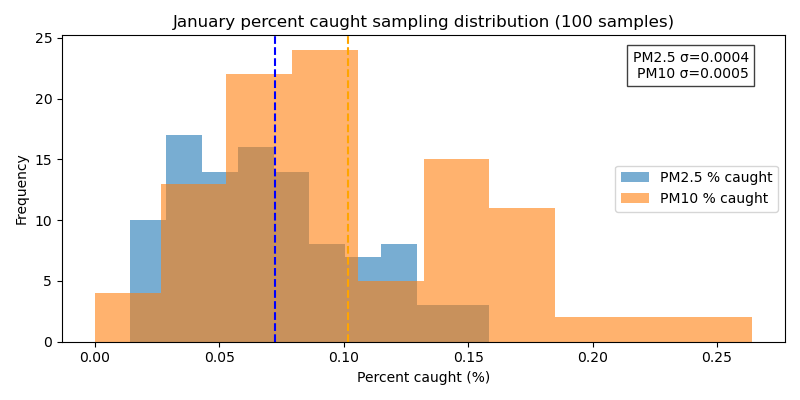
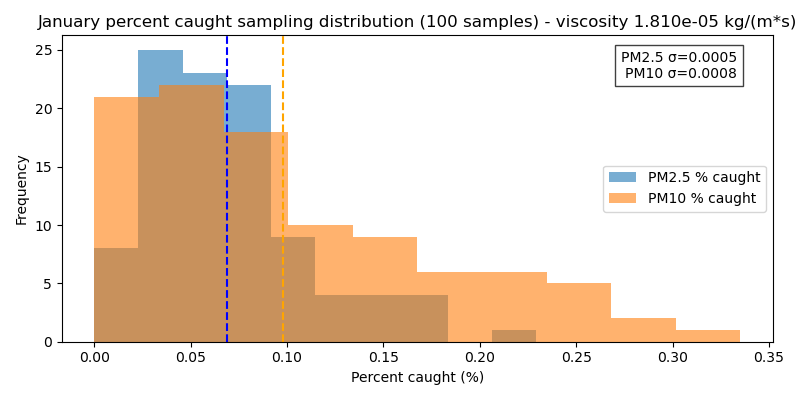
Refactor monthly sampling data handling: delete old CSV, update data structure, and enhance histogram plotting with new summary functions and visualizations

diff --git a/particle_motion.py b/particle_motion.py
@@ -302,7 +302,7 @@ def plot_percent_caught(monthly_results, save_path='percent_caught.png'):
         print("Headless backend used (Agg); cannot display interactive window, view saved file.")
 
 
-def plot_monthly_caught_histograms(monthly_results, out_dir='monthly_caught_hists', csv_path='monthly_caught.csv', show_plots=True):
+def plot_monthly_caught_histograms(monthly_results, out_dir='monthly_caught_hists', csv_path='monthly_caught.csv', show_plots=True, num_particles=5000, viscosity=viscosity_air):
     import os
     import csv
     try:
@@ -373,7 +373,7 @@ def plot_monthly_caught_histograms(monthly_results, out_dir='monthly_caught_hist
             plt.hist(percent_samples_pm10, bins=10, alpha=0.6, label='PM10 % caught')
             plt.xlabel('Percent caught (%)')
             plt.ylabel('Frequency')
-            plt.title(f'{month} percent caught sampling distribution ({len(samples)} samples)')
+            plt.title(f'{month} percent caught sampling distribution ({len(samples)} samples) - viscosity {viscosity:.3e} kg/(m*s)')
             plt.legend()
             plt.axvline(100*mean_pm2_5, color='blue', linestyle='--', label=f'PM2.5 mean {100*mean_pm2_5:.3f}%')
             plt.axvline(100*mean_pm10, color='orange', linestyle='--', label=f'PM10 mean {100*mean_pm10:.3f}%')
@@ -390,9 +390,10 @@ def plot_monthly_caught_histograms(monthly_results, out_dir='monthly_caught_hist
             plt.figure(figsize=(8, 4))
             plt.hist(pm2_5_rates, bins=10, alpha=0.6, label='PM2.5 capture rate')
             plt.hist(pm10_rates, bins=10, alpha=0.6, label='PM10 capture rate')
-            plt.xlabel('Capture rate (fraction)')
+            plt.xlabel('Capture rate (fraction of batch captured; unitless, e.g. 0.1 = 10% of particles)')
             plt.ylabel('Frequency')
             plt.title(f'{month} capture rate sampling distribution ({len(samples)} samples)')
+            plt.suptitle('Initial particle mix: 70% PM2.5, 30% PM10 (by number)')
             plt.legend()
             plt.axvline(mean_pm2_5, color='blue', linestyle='--', label=f'PM2.5 mean {mean_pm2_5:.6f}')
             plt.axvline(mean_pm10, color='orange', linestyle='--', label=f'PM10 mean {mean_pm10:.6f}')
@@ -406,13 +407,44 @@ def plot_monthly_caught_histograms(monthly_results, out_dir='monthly_caught_hist
             plt.close()
             print(f"Saved capture rate sampling histogram for {month} to {filename_rate_sampling}")
 
-        # aggregate all months total histogram
+        # aggregate all months total histogram for percent and rate
+        all_pm2_5_percent = [r * 100.0 for r in all_pm2_5_rates]
+        all_pm10_percent = [r * 100.0 for r in all_pm10_rates]
+
+        all_mean_pm2_5_rate = sum(all_pm2_5_rates) / len(all_pm2_5_rates)
+        all_mean_pm10_rate = sum(all_pm10_rates) / len(all_pm10_rates)
+        all_std_pm2_5_rate = (sum((r - all_mean_pm2_5_rate)**2 for r in all_pm2_5_rates) / len(all_pm2_5_rates))**0.5
+        all_std_pm10_rate = (sum((r - all_mean_pm10_rate)**2 for r in all_pm10_rates) / len(all_pm10_rates))**0.5
+
+        plt.figure(figsize=(10, 5))
+        plt.hist(all_pm2_5_percent, bins=20, alpha=0.6, label='PM2.5 % caught')
+        plt.hist(all_pm10_percent, bins=20, alpha=0.6, label='PM10 % caught')
+        plt.xlabel('Percent caught (%)')
+        plt.ylabel('Frequency')
+        plt.title(f'All-month percent sampling distribution (samples={len(all_pm2_5_rates)}, particles/sample={num_particles}, viscosity={viscosity:.5f})')
+        plt.axvline(all_mean_pm2_5_rate * 100, color='blue', linestyle='--', label=f'PM2.5 mean {all_mean_pm2_5_rate*100:.4f}%')
+        plt.axvline(all_mean_pm10_rate * 100, color='orange', linestyle='--', label=f'PM10 mean {all_mean_pm10_rate*100:.4f}%')
+        plt.text(0.95, 0.95, f'PM2.5 σ={all_std_pm2_5_rate:.6f}\nPM10 σ={all_std_pm10_rate:.6f}', transform=plt.gca().transAxes, ha='right', va='top', bbox=dict(facecolor='white', alpha=0.75))
+        plt.legend()
+        plt.tight_layout()
+
+        filename_all_percent = os.path.join(out_dir, 'all_months_percent_sampling_hist.png')
+        plt.savefig(filename_all_percent)
+        if show_plots:
+            plt.show()
+        plt.close()
+        print(f"Saved all-month percent sampling histogram to {filename_all_percent}")
+
         plt.figure(figsize=(10, 5))
         plt.hist(all_pm2_5_rates, bins=20, alpha=0.6, label='PM2.5 capture rate')
         plt.hist(all_pm10_rates, bins=20, alpha=0.6, label='PM10 capture rate')
-        plt.xlabel('Capture rate (fraction)')
+        plt.xlabel('Capture rate (fraction of batch captured; unitless, e.g. 0.1 = 10% of particles)')
         plt.ylabel('Frequency')
-        plt.title('Combined all-month capture rate sampling distribution')
+        plt.title(f'All-month capture rate sampling distribution (samples={len(all_pm2_5_rates)}, particles/sample={num_particles}, viscosity={viscosity:.5f})')
+        plt.suptitle('Initial particle mix: 70% PM2.5, 30% PM10 (by number)')
+        plt.axvline(all_mean_pm2_5_rate, color='blue', linestyle='--', label=f'PM2.5 mean {all_mean_pm2_5_rate:.6f}')
+        plt.axvline(all_mean_pm10_rate, color='orange', linestyle='--', label=f'PM10 mean {all_mean_pm10_rate:.6f}')
+        plt.text(0.95, 0.95, f'PM2.5 σ={all_std_pm2_5_rate:.6f}\nPM10 σ={all_std_pm10_rate:.6f}', transform=plt.gca().transAxes, ha='right', va='top', bbox=dict(facecolor='white', alpha=0.75))
         plt.legend()
         plt.tight_layout()
 
@@ -424,6 +456,76 @@ def plot_monthly_caught_histograms(monthly_results, out_dir='monthly_caught_hist
         print(f"Saved all-month capture rate sampling histogram to {filename_all_rate}")
 
     print(f"Saved monthly aggregated CSV data to {csv_path}")
+
+
+def plot_summary_from_csv(csv_path='monthly_sampling.csv', output_path_percent='percent_caught.png', output_path_rate='rate_caught.png'):
+    import csv
+    try:
+        import matplotlib.pyplot as plt
+    except ImportError:
+        raise ImportError("matplotlib is required for plotting, install with: pip install matplotlib")
+
+    months = []
+    pm25_mean = []
+    pm25_std = []
+    pm10_mean = []
+    pm10_std = []
+    pm25_rate = []
+    pm10_rate = []
+
+    with open(csv_path, newline='') as csvfile:
+        reader = csv.DictReader(csvfile)
+        for row in reader:
+            months.append(row['month'])
+            pm25_mean.append(float(row['pm2_5_mean_rate']))
+            pm25_std.append(float(row['pm2_5_std_rate']))
+            pm10_mean.append(float(row['pm10_mean_rate']))
+            pm10_std.append(float(row['pm10_std_rate']))
+            pm25_rate.append(float(row['pm2_5_capture_rate']))
+            pm10_rate.append(float(row['pm10_capture_rate']))
+
+    x = range(len(months))
+
+    # Percent caught plot from mean and std
+    plt.figure(figsize=(12, 6))
+    plt.errorbar(x, [v*100 for v in pm25_mean], yerr=[s*100 for s in pm25_std], fmt='o-', label='PM2.5 mean % caught', capsize=4)
+    plt.errorbar(x, [v*100 for v in pm10_mean], yerr=[s*100 for s in pm10_std], fmt='s-', label='PM10 mean % caught', capsize=4)
+    plt.xticks(x, months, rotation=45)
+    plt.xlabel('Month')
+    plt.ylabel('Mean percent caught (%)')
+    plt.title('Monthly mean percent caught (with std error bars)')
+    plt.suptitle('Initial particle fraction used in simulation: 70% PM2.5, 30% PM10 by number')
+    plt.legend()
+    plt.tight_layout()
+    plt.savefig(output_path_percent)
+    try:
+        plt.show()
+    except Exception:
+        pass
+    plt.close()
+    print(f"Saved percent summary chart to {output_path_percent}")
+
+    # Capture rate chart
+    plt.figure(figsize=(12, 6))
+    plt.errorbar(x, pm25_mean, yerr=pm25_std, fmt='o-', label='PM2.5 mean capture rate', capsize=4)
+    plt.errorbar(x, pm10_mean, yerr=pm10_std, fmt='s-', label='PM10 mean capture rate', capsize=4)
+    plt.plot(x, pm25_rate, 'b--', alpha=0.6, label='PM2.5 capture rate')
+    plt.plot(x, pm10_rate, 'r--', alpha=0.6, label='PM10 capture rate')
+    plt.xticks(x, months, rotation=45)
+    plt.xlabel('Month')
+    plt.ylabel('Capture rate (fraction of particles captured per simulation run, unitless)')
+    plt.title('Monthly capture rate summary with mean/std and actual rates')
+    plt.suptitle('Rate unit: fraction of particles captured out of the particle batch (not time-based)')
+    plt.legend()
+    plt.tight_layout()
+    plt.savefig(output_path_rate)
+    try:
+        plt.show()
+    except Exception:
+        pass
+    plt.close()
+    print(f"Saved rate summary chart to {output_path_rate}")
+
 
 
 def sampling_histograms_by_month(monthly_results, samples=100, out_dir='monthly_sampling_hists'):
@@ -527,7 +629,7 @@ def simulate_monthly_smog_tower(
 
 def simulate_monthly_sampling(
     samples=100,
-    num_particles=10000,
+    num_particles=5000,
     dt=0.01,
     max_time=180.0,
     tower_x=0.0,
@@ -603,9 +705,11 @@ def simulate_monthly_sampling(
 
 
 if __name__ == "__main__":
+    print("Simulation configuration: initial particle mix 70% PM2.5, 30% PM10 by number; capture rates are fraction per simulation run, not time-based.")
+    print("Particle count per sample:", 5000)
     monthly_samples = simulate_monthly_sampling(
         samples=100,
-        num_particles=10000,
+        num_particles=5000,
         dt=0.01,
         max_time=180.0,
         spawn_x_min=-10.0,
@@ -635,6 +739,7 @@ if __name__ == "__main__":
 
     try:
         plot_monthly_caught_histograms(monthly_samples, out_dir='monthly_sampling_hists', csv_path='monthly_sampling.csv', show_plots=False)
+        plot_summary_from_csv(csv_path='monthly_sampling.csv', output_path_percent='percent_caught.png', output_path_rate='rate_caught.png')
     except ImportError:
         print("matplotlib not available; skip plotting.")
 
